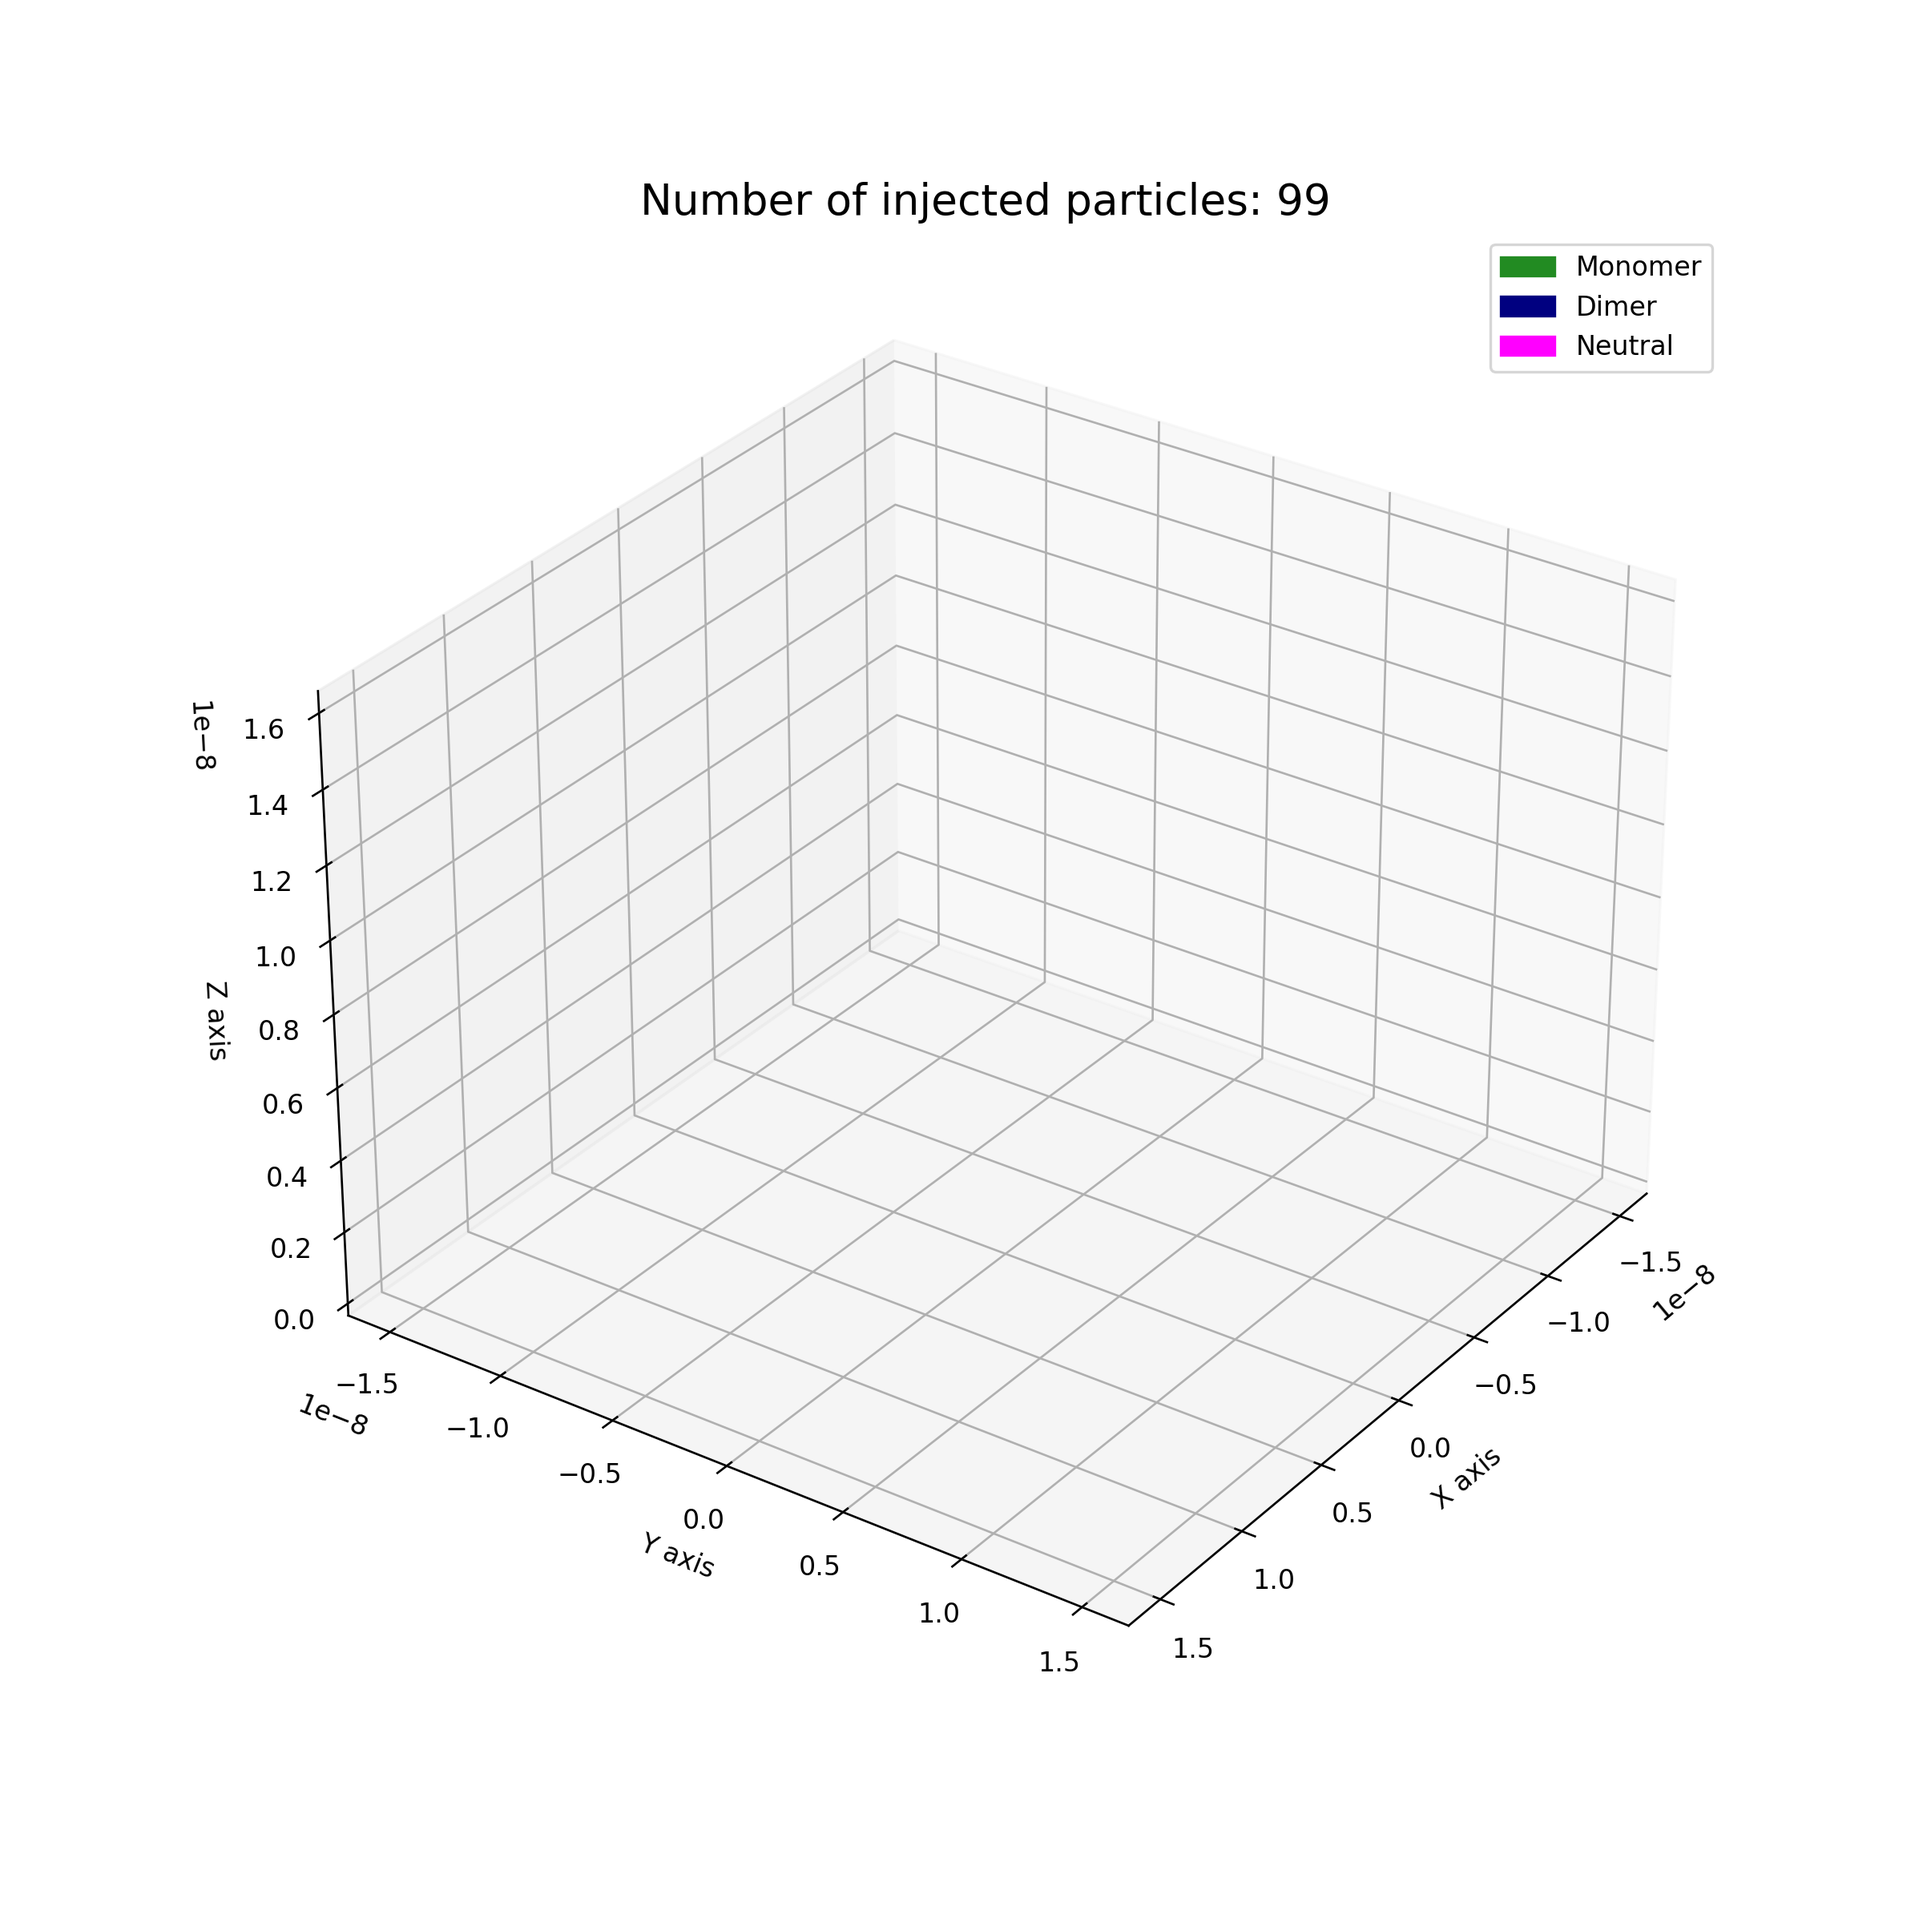
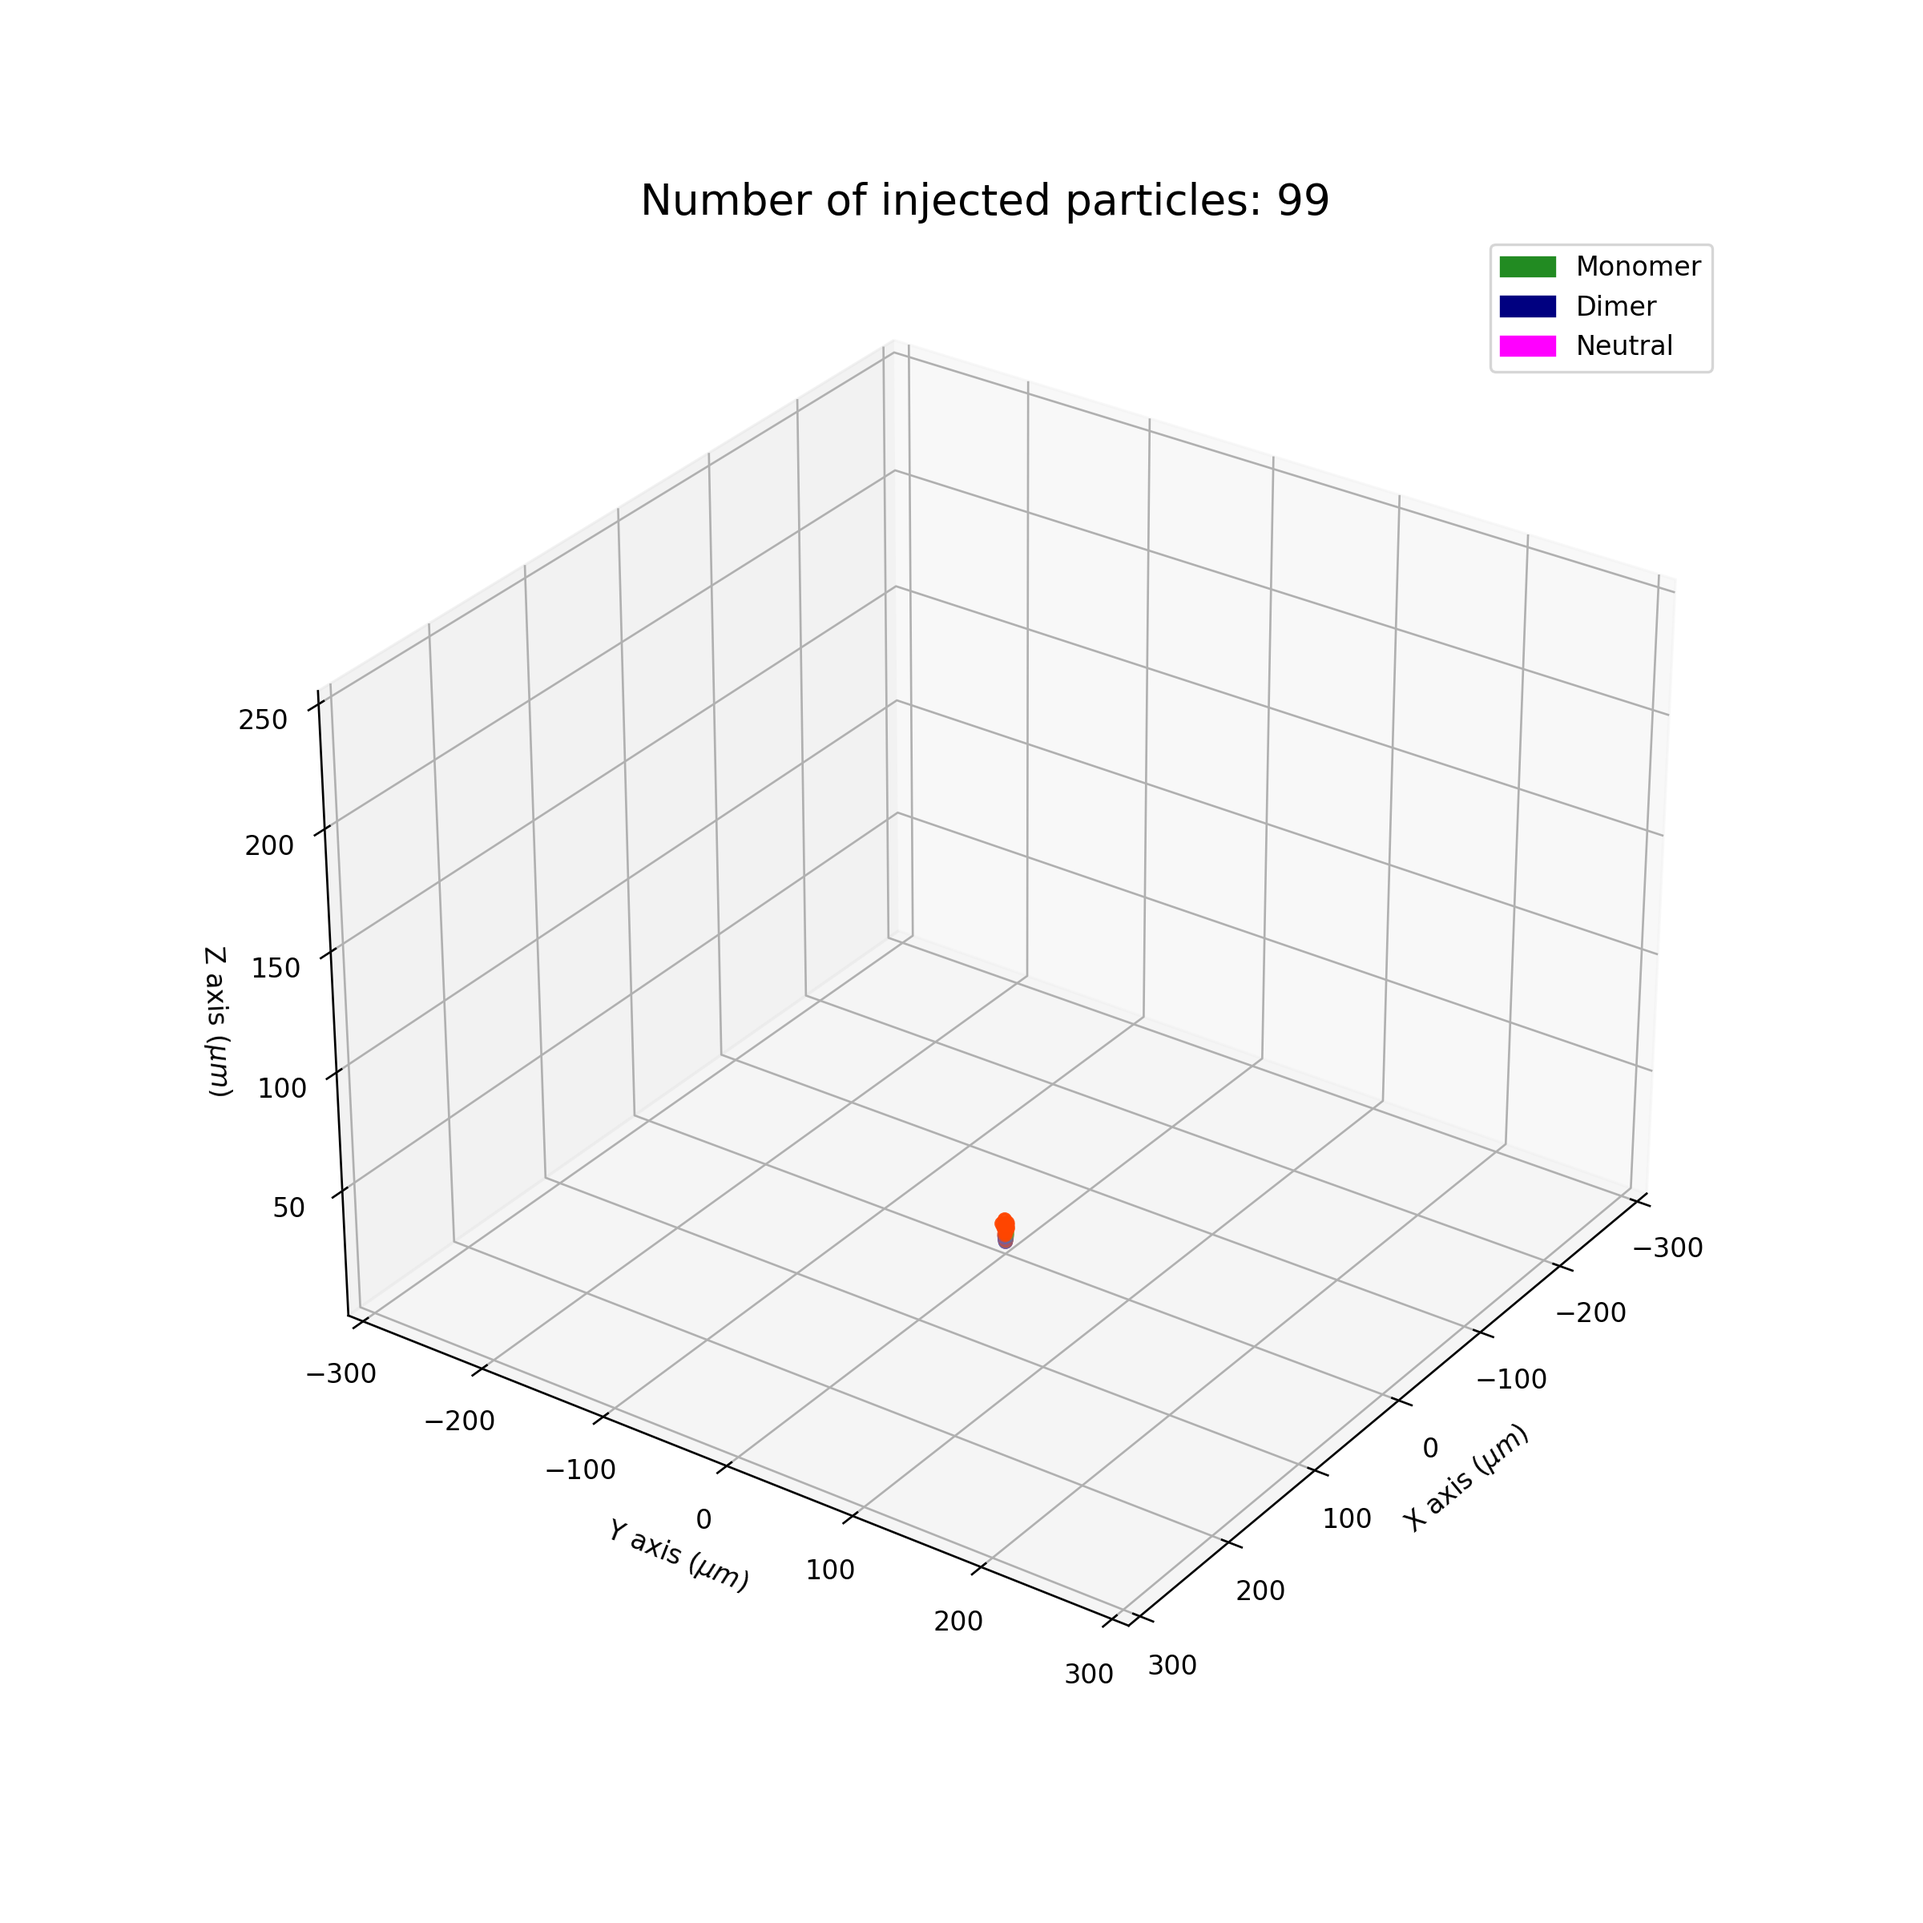
3D emitter

diff --git a/helpers_DF.py b/helpers_DF.py
@@ -1,15 +1,15 @@
 import numpy as np
 from numba import njit, prange, float64
 import matplotlib.pyplot as plt
-
 import matplotlib.patches as mpatches
+from matplotlib import colors as mcolors
 from scipy.spatial import Delaunay
 from scipy.interpolate import LinearNDInterpolator
 
 
 
 @njit('(float64[:,:], float64[:,:], float64[:,:],float64, float64)', cache=True, fastmath=True, parallel=True)
-def compute_acc_poisson(pos, mass,charge, k, softening):
+def compute_acc_poisson(pos,mass,charge, k, softening):
     """ Computes the Acceleration of N bodies
 	Args:
 		pos (type=np.array, size= Nx3): x, y, z positions of the N particles
@@ -55,38 +55,6 @@ def compute_acc_poisson(pos, mass,charge, k, softening):
         acc[i, 2] = k * contig_charge[i]/contig_mass[i] * az
 
     return acc
-
-
-
-
-def leapfrog_kdk_V1(pos,vel,acc,dt,mass,charge, k, softening):
-	"""Takes the current position, velocity, and acceleration at time t. Then, it carries out
- the leapfrog scheme kick-drift-kick. It then returns the updated position, velocity and accelration
- at time t+dt.
- 	Args:
-		pos (np.array of Nx3): _Position x, y, and z of N particles_
-		vel (np.array of Nx3): _Velocity vx, vy, and vz of N particles_
-		acc (np.array of Nx3): _Acceleration ax, ay, and az of N particles_
-		dt (float): _Timestep_
-		mass (np.array of N): _Mass of N particles_
-		k (float, optional): _Coulomb constant_.
-		softening (float): _softening length_
-	Returns:
-		pos (np.array of Nx3): _New position x, y, and z of N particles_
-		vel (np.array of Nx3): _New velocity vx, vy, and vz of N particles_
-		acc (np.array of Nx3): _New acceleration ax, ay, and az of N particles_
-	"""
-	# (1/2) kick 
-	vel += acc * dt/2.0
-	# drift
-	pos += vel * dt
-	# update accelerations
-	acc = compute_acc_poisson(pos, mass,charge, k, softening )
-	# (1/2) kick
-	vel += acc * dt/2.0
- 
-	return pos, vel, acc
-
 
 
 
@@ -155,7 +123,7 @@ def interp_lin_delaunay(interp,request_pts):
 
 
 
-def compute_acc_laplace (interp,x,y,z,charge,mass):
+def compute_acc_laplace (interp,x,y,z,mass,charge):
     r = np.sqrt(x**2 + y**2) # convert cartesian to cylindrical
     request_pts=np.vstack((r,z)).T
     E_array=interp_lin_delaunay(interp,request_pts) # nx2 array of Er and Ez
@@ -176,7 +144,7 @@ def compute_acc_laplace (interp,x,y,z,charge,mass):
 
 
 
-def leapfrog_kdk_V2(pos,vel,acc,dt,mass,charge, k, softening,interp):
+def leapfrog_kdk(pos,vel,acc,dt,mass,charge, k, softening,interp):
 	"""Takes the current position, velocity, and acceleration at time t. Then, it carries out
  the leapfrog scheme kick-drift-kick. It then returns the updated position, velocity and accelration
  at time t+dt.
@@ -199,7 +167,7 @@ def leapfrog_kdk_V2(pos,vel,acc,dt,mass,charge, k, softening,interp):
 	pos += vel * dt
 	# update accelerations
 	acc_poisson = compute_acc_poisson(pos, mass,charge, k, softening )
-	acc_laplace = compute_acc_laplace (interp,pos[:,0],pos[:,1],pos[:,2],charge,mass)
+	acc_laplace = compute_acc_laplace (interp,pos[:,0],pos[:,1],pos[:,2],mass,charge)
 	acc=acc_poisson+acc_laplace
 	# (1/2) kick
 	vel += acc * dt/2.0
@@ -211,57 +179,8 @@ def leapfrog_kdk_V2(pos,vel,acc,dt,mass,charge, k, softening,interp):
 
 
 
-
-
-
-
 #@njit(cache=True,fastmath=True,nogil=False)
-def DF_nbody_V1(dt,N,prob,ri,zi,vri,vzi,Pneut,Pmono,Pdim,Ptrim,softening,k):
-    """Direct Force computation of the N body problem. The complexity of this algorithm
-    is O(N^2)
- 
-    Args:
-		N (_int_): Number of injected particles
-    	dt (_float_): _timestep_
-    	softening (float, optional): _softening parameter_. Defaults to 0.01.
-    	k (float, optional): _Coulomb constant_. Defaults to 8.9875517923*1e9.
-    	vy (float, optional): _velocity in the y direction_. Defaults to 50.0.
-    """
-    IC=IC_conditions (N,prob,ri,zi,vri,vzi,Pneut,Pmono,Pdim,Ptrim)
-    pos=IC[:,0:3]
-    vel=IC[:,3:6]
-    species=IC[:,6]
-    mass=IC[:,7]
-    charge=IC[:,8]
-    
-    mass=mass.reshape(-1, 1)
-    charge=charge.reshape(-1, 1)
-    
-    acc=np.zeros([N,3]) # initial acceleration of all the set of particles
-     
-	# pos_save: saves the positions of the particles at each time step
-    pos_save = np.ones((N,3,N))*np.nan
-    pos_save[0,:,0] = pos[0:1]
- 
- 	#vel_save: saves the velocities of the particles at each time step for computing the energy at each time step
-    #vel_save = np.ones((N,3,N))*nan
-    #vel_save[0,:,0] = vel[0:1]
-
-	# Simulation Main Loop
- 
-    for i in range(1,N):
-		# Run the leapfrog scheme:
-        pos[0:i],vel[0:i],acc[0:i]=leapfrog_kdk_V1(pos[0:i],vel[0:i],acc[0:i],dt,mass[0:i],charge[0:i], k, softening)
-  		# save the current position and velocity of the 0 to i particles:
-        pos_save[:i,:,i] = pos[0:i]
-        #vel_save[:i,:,i] = vel[0:i]
-		
-    return species, pos_save 
-
-
-
-#@njit(cache=True,fastmath=True,nogil=False)
-def DF_nbody_V2(dt,N,prob,ri,zi,vri,vzi,Pneut,Pmono,Pdim,Ptrim,softening,k,interp):
+def DF_nbody(dt,N,prob,ri,zi,vri,vzi,Pneut,Pmono,Pdim,Ptrim,softening,k,interp):
     """Direct Force computation of the N body problem. The complexity of this algorithm
     is O(N^2)
  
@@ -297,7 +216,7 @@ def DF_nbody_V2(dt,N,prob,ri,zi,vri,vzi,Pneut,Pmono,Pdim,Ptrim,softening,k,inter
  	
     for i in range(1,N):
 		# Run the leapfrog scheme:
-        pos[0:i],vel[0:i],acc[0:i]=leapfrog_kdk_V2(pos[0:i],vel[0:i],acc[0:i],dt,mass[0:i],charge[0:i], k, softening,interp)
+        pos[0:i],vel[0:i],acc[0:i]=leapfrog_kdk(pos[0:i],vel[0:i],acc[0:i],dt,mass[0:i],charge[0:i], k, softening,interp)
   		# save the current position and velocity of the 0 to i particles:
         pos_save[:i,:,i] = pos[0:i]
         #vel_save[:i,:,i] = vel[0:i]
@@ -311,7 +230,7 @@ def DF_nbody_V2(dt,N,prob,ri,zi,vri,vzi,Pneut,Pmono,Pdim,Ptrim,softening,k,inter
 # ----------------------------------------------------------------------------------------------
 # ----------------------------------------------------------------------------------------------
 
-def animate_injection_2D(species,pos_save):    
+def animate_injection_2D_V0(species,pos_save):    
 	"""Takes the list of species and the position of each particle at each timestep and creates
  an animation in real time.
 
@@ -323,12 +242,13 @@ def animate_injection_2D(species,pos_save):
 	N=len(species)
 	colors=["forestgreen","navy","fuchsia","black"]
 	col_list=[colors [int(i)] for i in list(species[:-1])]
+ 
 	fig = plt.figure(figsize=(4,5), dpi=80)
 	grid = plt.GridSpec(1, 1, wspace=0.0, hspace=0.3)
 	ax1 = plt.subplot(grid[0,0])
  
-	xmax=np.nanmax(pos_save[:,0,-1])
-	zmax=np.nanmax(pos_save[:,2,-1])
+	#xmax=np.nanmax(pos_save[:,0,-1])
+	#zmax=np.nanmax(pos_save[:,2,-1])
  
 	plt.sca(ax1)
 	ax1.set_xlabel('X axis ($\mu m$)')
@@ -341,12 +261,95 @@ def animate_injection_2D(species,pos_save):
 		xx = pos_save[:i,0,i]
 		zz = pos_save[:i,2,i]
 		plt.scatter(xx*1e6,zz*1e6,s=5,color=col_list[:i])
-		ax1.set(xlim=(-xmax*1e6, xmax*1e6), ylim=(1.7, 50))
+		ax1.set(xlim=(-300, 300), ylim=(150, 400))
 		ax1.set_aspect('equal', 'box')
 		plt.pause(1e-5)
 
 		
 	return 0
+
+
+
+
+
+
+def animate_injection_2D(species,pos_save):    
+	"""Takes the list of species and the position of each particle at each timestep and creates
+ an animation in real time.
+
+	Args:
+		species (np.array of Nx1): _Contains the type of the species of the N particles_
+		pos_save (np.array of Nx3xN): _Contains the position of the particles at each time step_
+	"""
+
+	N=len(species)
+	labels = ["Neutral", "Monomer", "Dimer", "Trimer"]
+	color_names = ["white", "orangered", "limegreen","royalblue"]
+	alphas=[0.2,0.3,0.3,0.8]
+	col_list = [mcolors.to_rgba(color_names[int(i)], alpha=alphas[int(i)]) for i in species[:-1]]
+ 
+ 
+ 
+ 
+	fig = plt.figure(figsize=(6,8), dpi=80, facecolor='white')
+	ax1 = fig.add_subplot(111, facecolor='black')
+
+	# Plot the extractor grid
+	p1 = (150, 100)
+	p2 = (150, 130)
+	p3 = (300, 100)
+	p4 = (300, 130)
+	width = p3[0]-p1[0]
+	height = p2[1]-p1[1]
+	rect1 = mpatches.Rectangle((p1[0],p1[1]), width, height, facecolor ='silver', alpha=0.8)
+	p1 = (-150, 100)
+	p2 = (-150, 130)
+	p3 = (-300, 100)
+	p4 = (-300, 130)
+	width = p3[0]-p1[0]
+	height = p2[1]-p1[1]
+	rect2 = mpatches.Rectangle((p1[0],p1[1]), width, height, facecolor ='silver', alpha=0.8)
+
+
+	#Plot the tip of the emitter
+	r_tip=np.arange(0,75,0.1)
+	d=100
+	Rc=11
+	eta0=np.power(1+Rc/d,-1/2)
+	a=2*d*np.sqrt(1+Rc/d)
+	z_tip=100-eta0*np.sqrt(np.power(a,2)/4+np.power(r_tip,2)/(1-np.power(eta0,2)))
+	l, = ax1.plot([],[])
+ 
+ 
+ 
+ 
+	plt.sca(ax1)
+	ax1.set_xlabel('X axis ($\mu m$)')
+	ax1.set_ylabel('Z axis ($\mu m$)')
+	
+ 
+	for i in range(1,N):
+		plt.cla()
+		plt.title('Number of injected particles: %i' %i, fontsize=10)
+		xx = pos_save[:i,0,i]
+		zz = pos_save[:i,2,i]
+		plt.scatter(xx*1e6,zz*1e6,s=5,c=col_list[:i])
+		ax1.set(xlim=(-300, 300), ylim=(-150, 400))
+		ax1.set_aspect('equal', 'box')
+		ax1.add_patch(rect1)
+		ax1.add_patch(rect2)
+		plt.fill_between(r_tip+0.1, z_tip,-150, color='skyblue', alpha=0.5)
+		plt.fill_between(-r_tip-0.1, z_tip,-150, color='skyblue', alpha=0.5)
+		plt.xlabel("r ($\mu m$)",fontsize=14)
+		plt.ylabel("z ($\mu m$)",fontsize=14)
+		for col, label in zip(color_names[1:], labels[1:]):
+			plt.scatter([], [], color=mcolors.to_rgba(col,alpha=1), s=50, label=label)
+		plt.legend(loc='best')
+		plt.pause(1e-18)
+
+		
+	return 0
+
 
 
 
@@ -361,7 +364,7 @@ def animate_injection_3D(species,pos_save):
 	"""
 
 	N=len(species)
-	colors=["forestgreen","navy","fuchsia","black"]
+	colors=["white", "orangered", "limegreen","royalblue"]
 	col_list=[colors [int(i)] for i in list(species[:-1])]
 
 	mono_patch = mpatches.Patch(color='forestgreen', label='Monomer')
@@ -384,7 +387,7 @@ def animate_injection_3D(species,pos_save):
 		yy = pos_save[:i,1,i]
 		zz = pos_save[:i,2,i]
 		ax.scatter(xx*1e6,yy*1e6,zz*1e6,color=col_list[:i])
-		ax.set(xlim=(-xmax*1e6, xmax*1e6), ylim=(-ymax*1e6, ymax*1e6),zlim=(1.7, 100))
+		ax.set(xlim=(-300, 300), ylim=(-300, 300),zlim=(1.7, 250))
 		plt.title('Number of injected particles: %i' %i, fontsize=16)
 		plt.legend(handles=[mono_patch, dim_patch,neut_patch])
 		ax.set_aspect('auto', 'box')

diff --git a/main.py b/main.py
@@ -29,7 +29,7 @@ z=Field[:,1]*convert_dist
 Er=Field[:,2]*convert_E
 Ez=Field[:,3]*convert_E
 
-N=1000
+N=100
 dt=5e-12
 Pneut=0
 Pmono=50
@@ -41,7 +41,7 @@ interp=triangulation (r,z,Er,Ez)
 
 
 #species, pos_save = DF_nbody_V1(dt,N,prob,ri,zi,vri,vzi,Pneut,Pmono,Pdim,Ptrim,softening,k)
-species, pos_save = DF_nbody_V2(dt,N,prob,ri,zi,vri,vzi,Pneut,Pmono,Pdim,Ptrim,softening,k,interp)
+species, pos_save,IC = DF_nbody(dt,N,prob,ri,zi,vri,vzi,Pneut,Pmono,Pdim,Ptrim,softening,k,interp)
 
 #T1= min(timeit.repeat(stmt='DF_nbody(N,dt,softening,k,vy)',\
  #                     timer=time.perf_counter,repeat=3, number=1,globals=globals()) )
